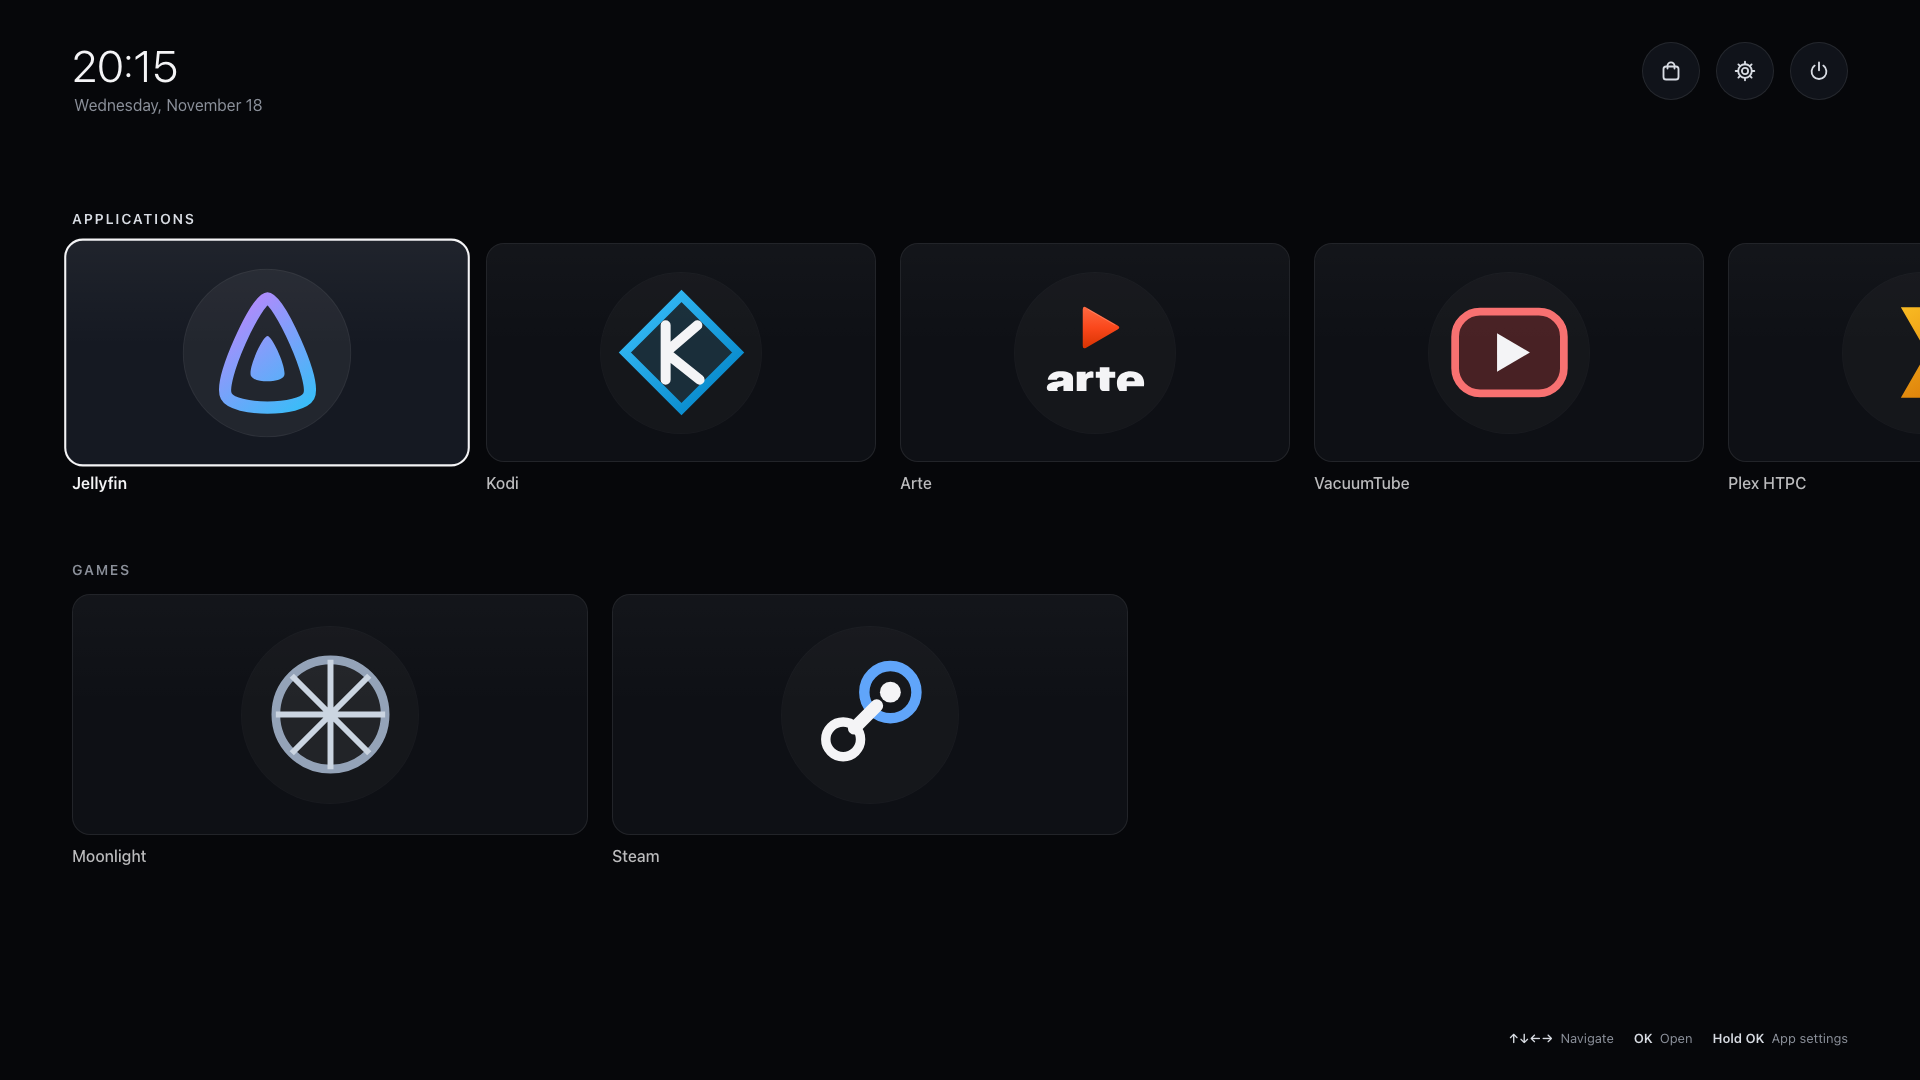
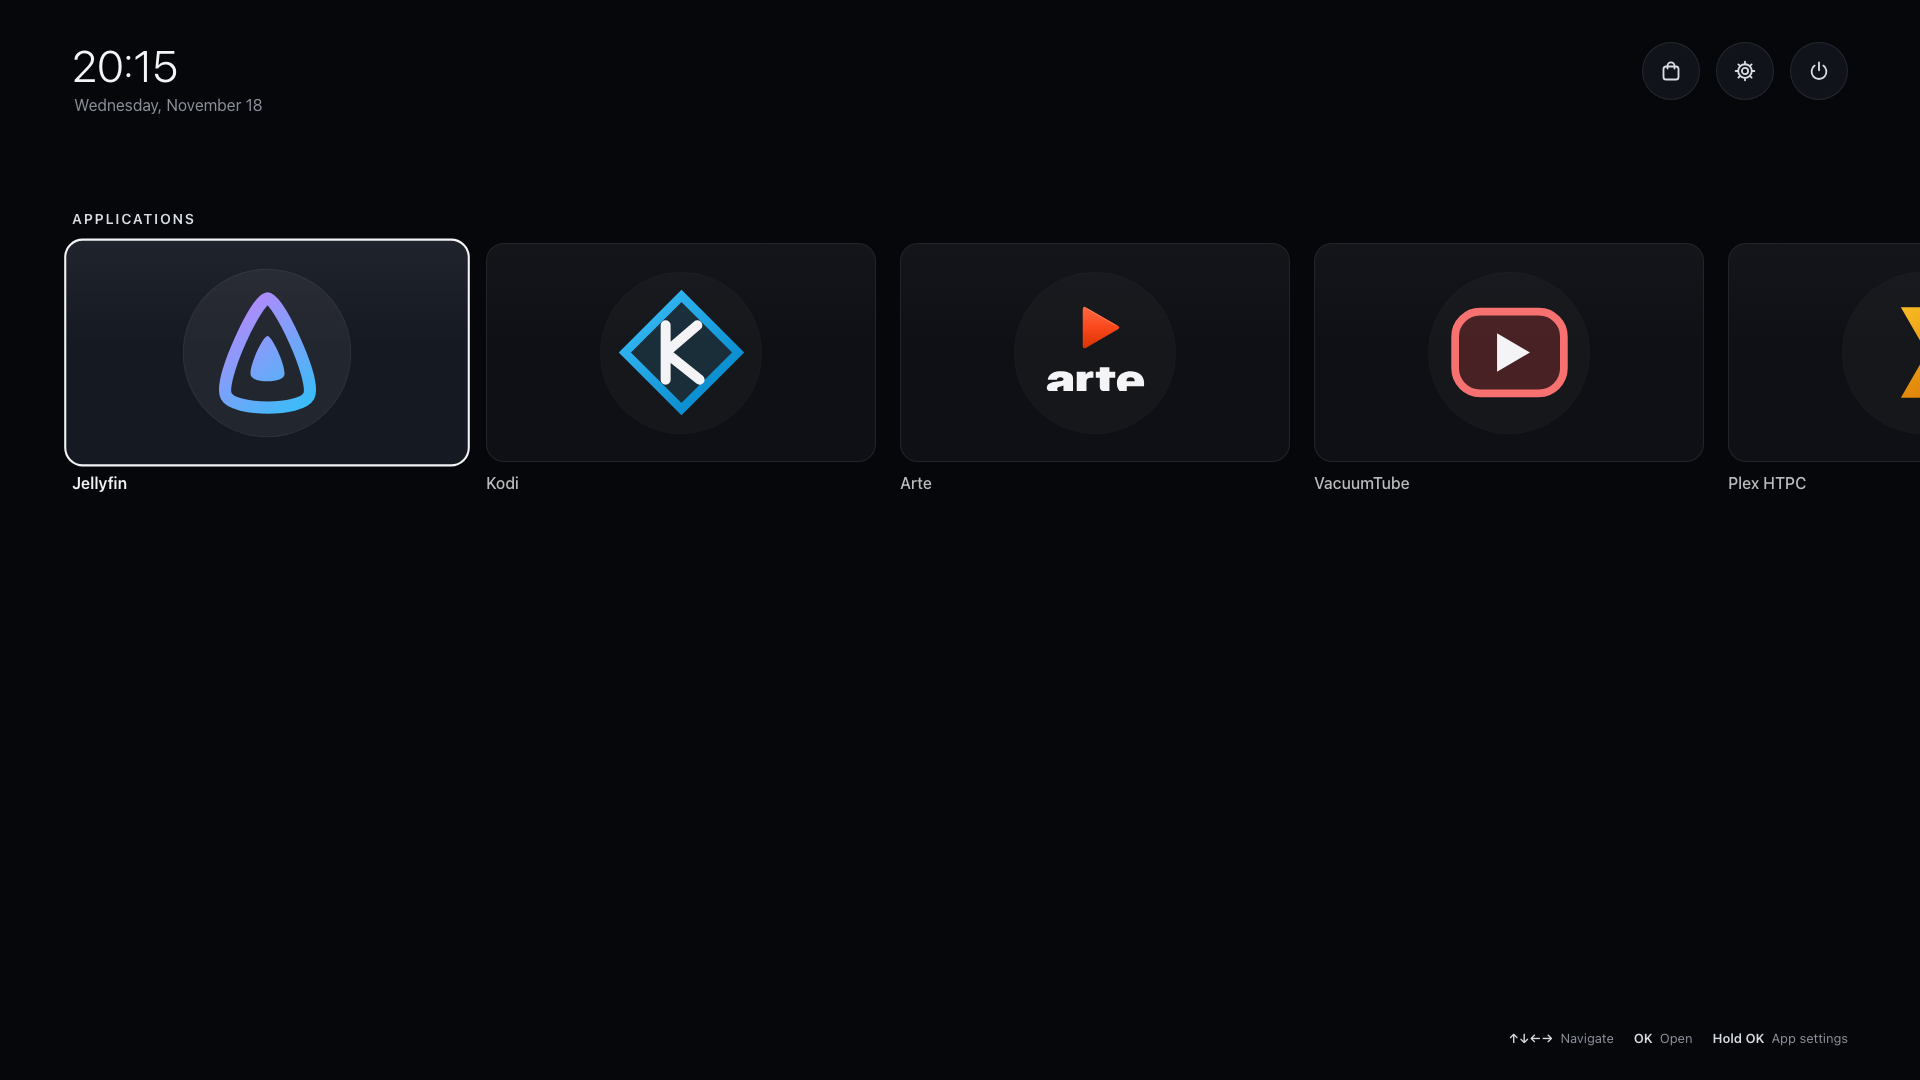
chore(screenshots): update Home, Store, and social preview to match curated TV catalog

diff --git a/site/index.html b/site/index.html
@@ -25,14 +25,14 @@
   <meta property="og:image:width" content="1920">
   <meta property="og:image:height" content="1080">
   <meta property="og:image:alt"
-    content="Bigfoot OS 10-foot television home screen showing Jellyfin Media Player, Kodi, Plex HTPC, VacuumTube, and Moonlight">
+    content="Bigfoot OS 10-foot television home screen showing Jellyfin, Kodi, Arte, VacuumTube, and Plex HTPC">
   <meta name="twitter:card" content="summary_large_image">
   <meta name="twitter:title" content="Bigfoot OS — Open-Source Linux Smart TV Operating System">
   <meta name="twitter:description"
     content="Turn a mini-PC or computer into a smart TV you control with your remote. No ads. No telemetry. No account.">
   <meta name="twitter:image" content="https://bigfoot.sektor64.net/assets/img/home.png">
   <meta name="twitter:image:alt"
-    content="Bigfoot OS 10-foot television home screen showing Jellyfin Media Player, Kodi, Plex HTPC, VacuumTube, and Moonlight">
+    content="Bigfoot OS 10-foot television home screen showing Jellyfin, Kodi, Arte, VacuumTube, and Plex HTPC">
   <link rel="icon" href="favicon.svg" type="image/svg+xml">
   <link rel="icon" href="favicon-48x48.png" type="image/png" sizes="48x48">
   <link rel="apple-touch-icon" href="apple-touch-icon.png" sizes="180x180">
@@ -206,7 +206,7 @@
                 <picture>
                   <source srcset="assets/img/home.webp" type="image/webp">
                   <img src="assets/img/home.png" width="1920" height="1080" fetchpriority="high" decoding="async"
-                    alt="Bigfoot OS 10-foot television home screen showing Jellyfin Media Player, Kodi, Arte, VacuumTube, Plex HTPC, Moonlight, and Steam">
+                    alt="Bigfoot OS 10-foot television home screen showing Jellyfin, Kodi, Arte, VacuumTube, and Plex HTPC">
                 </picture>
                 <figcaption class="sr-only">Boots straight into a 10-foot Wayland TV home screen—no desktop, no login, no ads.</figcaption>
               </figure>
@@ -222,9 +222,9 @@
                 <picture>
                   <source srcset="assets/img/store.webp" type="image/webp">
                   <img src="assets/img/store.png" width="1920" height="1080" decoding="async"
-                    alt="Bigfoot OS 10-foot app store showing Arte, Kodi, Jellyfin, VacuumTube, Moonlight, and Steam">
+                    alt="Bigfoot OS 10-foot app store showing Arte, Kodi, Jellyfin, VacuumTube, and Plex HTPC">
                 </picture>
-                <figcaption class="sr-only">Install Kodi, Jellyfin, ARTE.tv, VacuumTube, Moonlight, and Steam in one click.</figcaption>
+                <figcaption class="sr-only">Install Kodi, Jellyfin, ARTE.tv, VacuumTube, and Plex HTPC in one click.</figcaption>
               </figure>
               <figure class="slide" id="slide-settings" data-slide>
                 <picture>
